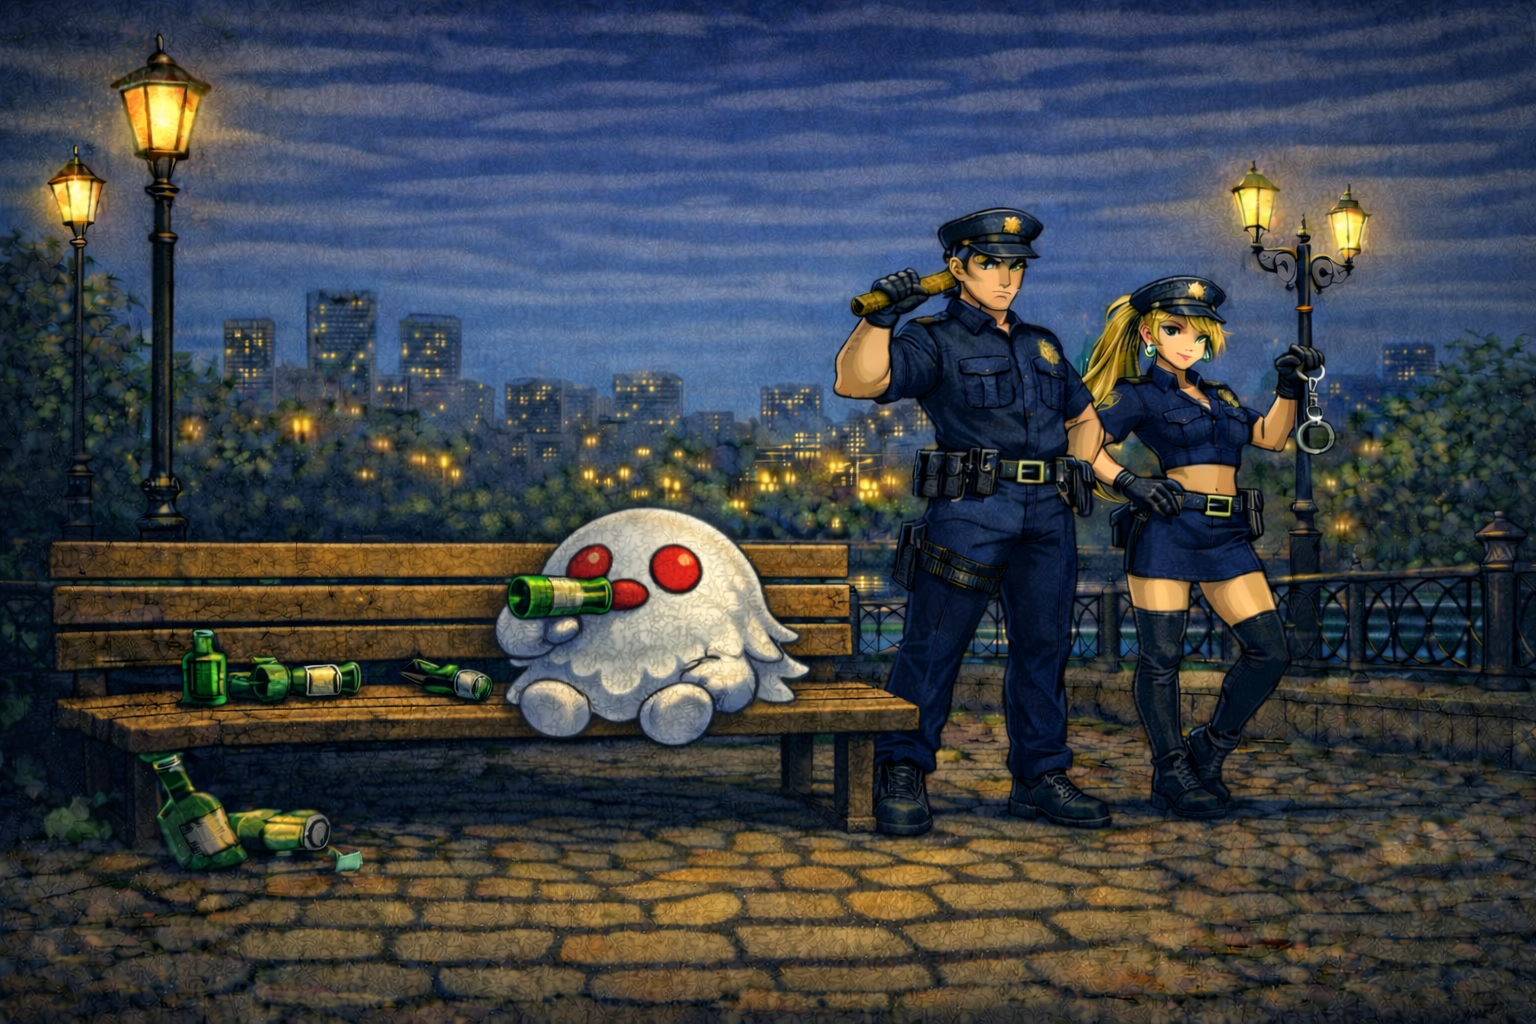
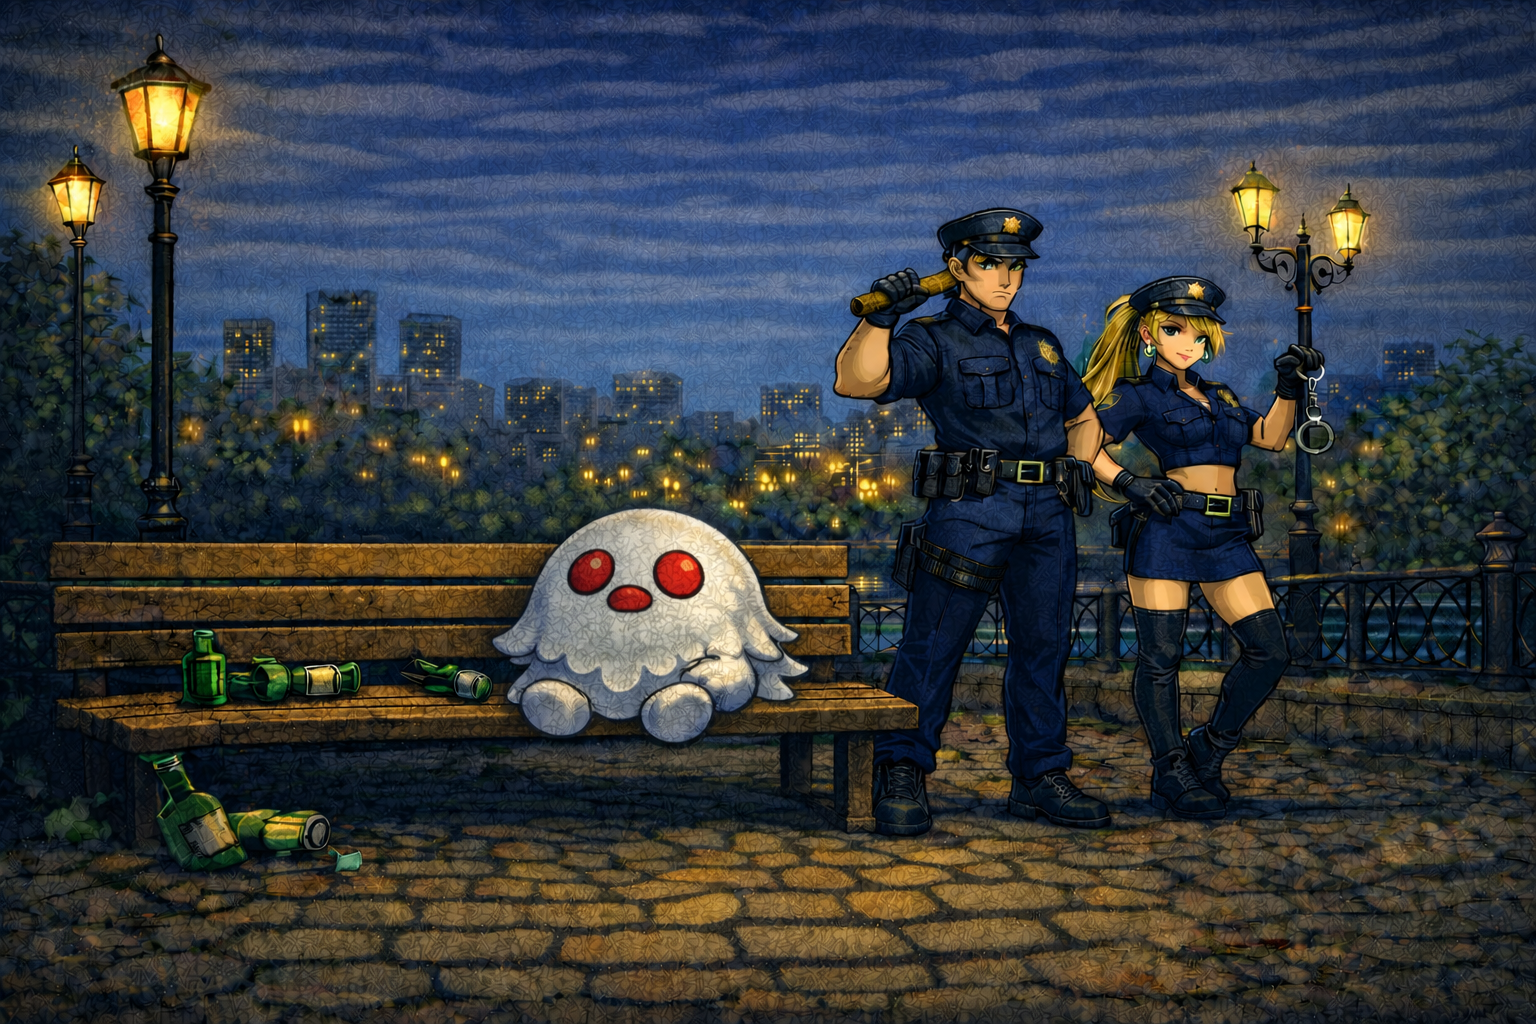
Use pixel hero and align patrol collisions

diff --git a/src/main/java/alkosmen/Game.java b/src/main/java/alkosmen/Game.java
@@ -99,6 +99,7 @@ public final class Game extends Canvas implements Runnable {
     private static final double MOVE_SPEED = 0.12;
     private static final double TOP_DOWN_SPEED = 0.115;
     private static final double PATROL_SPEED = 0.032;
+    private static final double PATROL_COLLISION_MARGIN = 0.06;
     private static final double BOTTLE_PICKUP_RADIUS = 0.82;
     private static final double GRAVITY = 0.035;
     private static final double JUMP_SPEED = -0.68;
@@ -107,8 +108,9 @@ public final class Game extends Canvas implements Runnable {
     private static final long COYOTE_TIME_MS = 120;
     // While jump key is held and player is moving up, gravity is reduced.
     private static final double JUMP_HOLD_GRAVITY_MULT = 0.55;
-    private static final double PLAYER_SCALE = 0.875;
-    private static final double PLAYER_COLLISION_MARGIN = 0.18;
+    // The player art has transparent padding, so the on-screen sprite is larger than its feet hitbox.
+    private static final double PLAYER_SCALE = 1.35;
+    private static final double PLAYER_COLLISION_MARGIN = 0.06;
     private static final double BOTTLE_SCALE = 1.3125;
     private static final double NPC_SCALE = 1.7;
     private static final double PATROL_SCALE = 0.875;
@@ -304,15 +306,24 @@ public final class Game extends Canvas implements Runnable {
     private void updatePatrols() {
         for (TopDownPatrol patrol : patrols) {
             double nextX = patrol.x + patrol.direction * PATROL_SPEED;
-            int tileX = (int) Math.floor(nextX);
-            int tileY = (int) Math.floor(patrol.y);
-            if (isSolid(tileX, tileY)) {
+            if (!canPatrolOccupy(nextX, patrol.y)) {
                 patrol.direction *= -1;
                 continue;
             }
             patrol.x = nextX;
             patrol.animationTick++;
         }
+    }
+
+    private boolean canPatrolOccupy(double x, double y) {
+        double minX = x + PATROL_COLLISION_MARGIN;
+        double maxX = x + 1.0 - PATROL_COLLISION_MARGIN;
+        double minY = y + PATROL_COLLISION_MARGIN;
+        double maxY = y + 1.0 - PATROL_COLLISION_MARGIN;
+        return !isSolid((int) Math.floor(minX), (int) Math.floor(minY))
+                && !isSolid((int) Math.floor(maxX), (int) Math.floor(minY))
+                && !isSolid((int) Math.floor(minX), (int) Math.floor(maxY))
+                && !isSolid((int) Math.floor(maxX), (int) Math.floor(maxY));
     }
 
     private void checkPatrolCollision(long now) {
@@ -703,7 +714,7 @@ public final class Game extends Canvas implements Runnable {
     }
 
     private Image[][] getAlkobotImages() {
-        Image whiteAlkosmen = removeWhiteBackdrop(loadImageResource("/alkosmen/ui/characters/white_alkosmen_hero_v1.png"));
+        Image whiteAlkosmen = loadImageResource("/alkosmen/ui/characters/white_alkosmen_player_pixel_v1.png");
         return new Image[][]{
                 new Image[]{whiteAlkosmen},
                 new Image[]{whiteAlkosmen},

diff --git a/src/main/java/alkosmen/service/BackgroundPanel.java b/src/main/java/alkosmen/service/BackgroundPanel.java
@@ -147,7 +147,6 @@ public class BackgroundPanel extends JPanel {
         drawBackgroundCover(g2, w, h);
         drawAtmospherePass(g2, w, h);
         drawMozolOverlay(g2, w, h);
-        drawEboboOverlay(g2, w, h);
 
         g2.dispose();
     }
